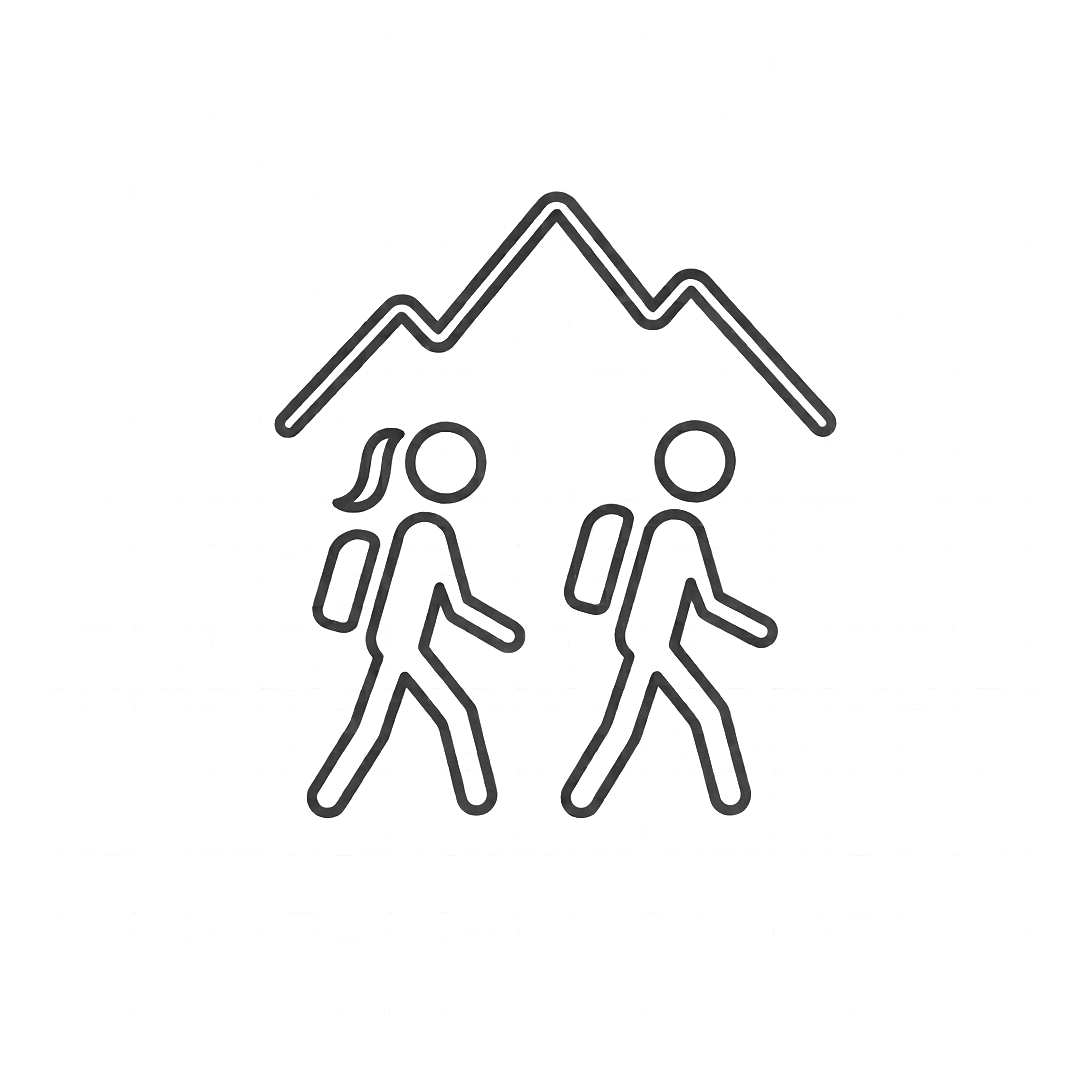
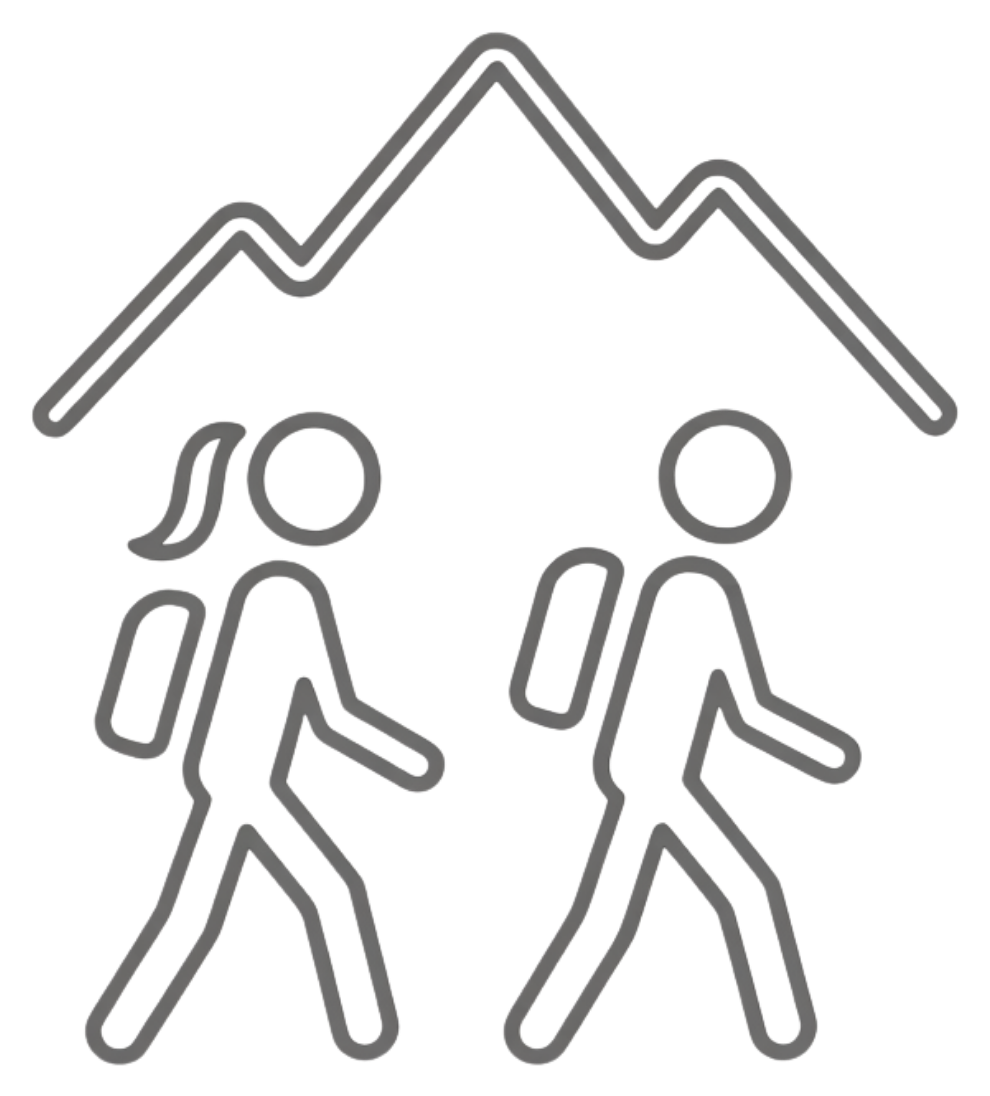
fix: reemplazar icono de caminata y volver al tamano estandar de recuadro

Changed region(s): [[0.0303, 0.0309, 0.9697, 0.9888], [0.0606, 0.8961, 0.1818, 0.9888]]

diff --git a/app/(tabs)/appointments.tsx b/app/(tabs)/appointments.tsx
@@ -484,7 +484,7 @@ export default function AppointmentsScreen() {
                 <View key={appointment.id} style={styles.appointmentCard}>
                   <View style={styles.appointmentHeader}>
                     {eventType === 'caminata' ? (
-                      <Image source={require('@/assets/images/icon-caminata.png')} style={{ width: 129, height: 110, marginRight: 12, tintColor: '#6B6B6B' }} resizeMode="contain" />
+                      <Image source={require('@/assets/images/icon-caminata.png')} style={{ width: 103, height: 88, marginRight: 12, tintColor: '#6B6B6B' }} resizeMode="contain" />
                     ) : eventType === 'bar' ? (
                       <Image source={require('@/assets/images/icon-bar.png')} style={{ width: 103, height: 88, marginRight: 12, tintColor: '#6B6B6B' }} resizeMode="contain" />
                     ) : eventType === 'restaurante' ? (

diff --git a/app/(tabs)/events.tsx b/app/(tabs)/events.tsx
@@ -200,7 +200,7 @@ export default function EventsScreen() {
                       activeOpacity={0.8}
                     >
                       {event.type === 'caminata' ? (
-                        <Image source={require('@/assets/images/icon-caminata.png')} style={{ width: 78, height: 66, marginRight: 12, tintColor: '#6B6B6B' }} resizeMode="contain" />
+                        <Image source={require('@/assets/images/icon-caminata.png')} style={{ width: 62, height: 53, marginRight: 12, tintColor: '#6B6B6B' }} resizeMode="contain" />
                       ) : event.type === 'bar' ? (
                         <Image source={require('@/assets/images/icon-bar.png')} style={{ width: 62, height: 53, marginRight: 12, tintColor: '#6B6B6B' }} resizeMode="contain" />
                       ) : event.type === 'restaurante' ? (

diff --git a/app/(tabs)/interaccion.tsx b/app/(tabs)/interaccion.tsx
@@ -1139,7 +1139,7 @@ export default function InteraccionScreen() {
         <View style={styles.eventCard}>
           <View style={styles.eventHeader}>
             {appointment.event.type === 'caminata' ? (
-              <Image source={require('@/assets/images/icon-caminata.png')} style={{ width: 105, height: 88, marginRight: 12, tintColor: '#6B6B6B' }} resizeMode="contain" />
+              <Image source={require('@/assets/images/icon-caminata.png')} style={{ width: 84, height: 70, marginRight: 12, tintColor: '#6B6B6B' }} resizeMode="contain" />
             ) : appointment.event.type === 'bar' ? (
               <Image source={require('@/assets/images/icon-bar.png')} style={{ width: 84, height: 70, marginRight: 12, tintColor: '#6B6B6B' }} resizeMode="contain" />
             ) : appointment.event.type === 'restaurante' ? (

diff --git a/app/event-details/[id].tsx b/app/event-details/[id].tsx
@@ -227,7 +227,7 @@ export default function EventDetailsScreen() {
           {/* Header - Icon and Title */}
           <View style={styles.headerSection}>
             {event.type === 'caminata' ? (
-              <Image source={require('@/assets/images/icon-caminata.png')} style={{ width: 195, height: 165, marginBottom: 12, tintColor: '#6B6B6B' }} resizeMode="contain" />
+              <Image source={require('@/assets/images/icon-caminata.png')} style={{ width: 156, height: 132, marginBottom: 12, tintColor: '#6B6B6B' }} resizeMode="contain" />
             ) : event.type === 'bar' ? (
               <Image source={require('@/assets/images/icon-bar.png')} style={{ width: 156, height: 132, marginBottom: 12, tintColor: '#6B6B6B' }} resizeMode="contain" />
             ) : event.type === 'restaurante' ? (